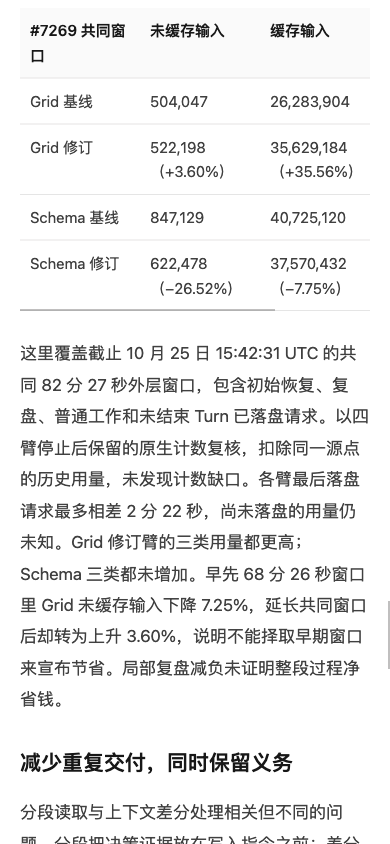
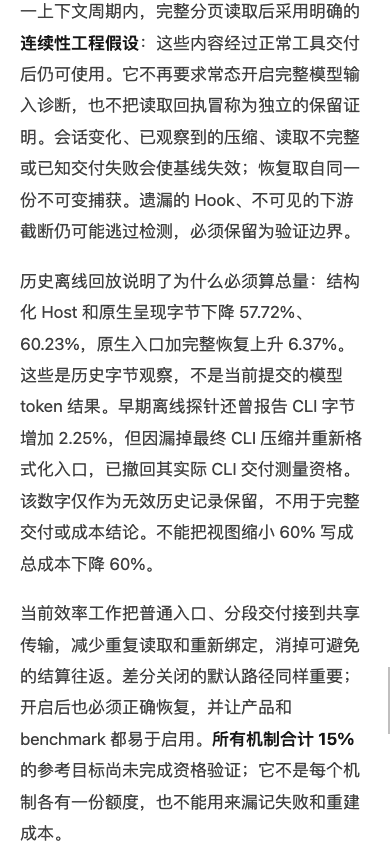
docs(blog): preserve withdrawn CLI measurement status

Changed region(s): [[0.0308, 0.0, 0.9538, 1.0], [0.9846, 0.7085, 1.0, 0.8626]]

diff --git a/apps/presentation/site/public/blog/edgebench-feedback-and-memory/index.html b/apps/presentation/site/public/blog/edgebench-feedback-and-memory/index.html
@@ -81,7 +81,7 @@
 <p>This observation covers the common 82m27s outer window through October 25, 15:42:31 UTC: initial recovery, review, ordinary work and persisted requests in unfinished Turns. Retained native counters from all four stopped arms were reconciled against their shared donor boundaries, with no counter gaps. Last persisted requests differ by up to 2m22s; unpersisted usage remains unknown. Grid’s revised arm used more of all three components; Schema’s did not increase. In the earlier 68m26s window, Grid’s uncached input fell 7.25%; the longer common window reverses that to a 3.60% increase. Choosing only the earlier window would misrepresent the result. Local review savings have not established net savings for the complete episode.</p>
 <span id="staged-context"></span><span id="staged-transport"></span><h3>Reduce repeated delivery without losing obligations</h3>
 <p>Staged reading and context differencing solve related problems. Staging orders decision evidence before writer instructions. Differencing sends changes against an exact baseline while keeping current controls explicit. Within the same native session and context epoch, the Hook path uses an explicit <strong>engineering assumption of continuity</strong> after a complete paged read: normally delivered tool content remains usable. It no longer requires full model-input diagnostics during ordinary operation, and a read receipt is not relabeled as independent retention proof. Session changes, observed compaction, incomplete reads and known delivery failures invalidate the baseline; recovery uses the same immutable capture. Missed hooks and unseen downstream truncation can still escape detection and remain validation limits.</p>
-<p>Historical offline replay illustrates why totals matter: structured Host and native presentation bytes fell 57.72% and 60.23%, while complete CLI delivery rose 2.25%, and native entry plus full recovery rose 6.37%. These are historical byte measurements, not current-head model-token results. A 60% smaller view cannot be reported as 60% lower total cost.</p>
+<p>Historical offline replay illustrates why totals matter: structured Host and native presentation bytes fell 57.72% and 60.23%, while native entry plus full recovery rose 6.37%. These are historical byte observations, not current-head model-token results. An earlier offline probe also reported a 2.25% increase in CLI bytes, but its qualification as an actual CLI delivery measurement was withdrawn: it omitted final CLI compaction and reformatted entry output. That figure remains only as an invalid historical measurement and supports no complete-delivery or cost conclusion. A 60% smaller view cannot be reported as 60% lower total cost.</p>
 <p>Our current efficiency work connects ordinary and staged delivery to the shared transport, reduces repeated reads and rebinding, and removes avoidable settlement round trips. The default with differencing off matters as much as the opt-in path. Enabled delivery also has to recover correctly and remain easy to activate across the product and benchmark. The reference of <strong>15% for all mechanisms combined</strong> remains unqualified; it is neither a separate allowance per mechanism nor a reason to omit failures or reconstruction.</p>
 </section>
 <span id="patches"></span><span id="planned-stride"></span><span id="distribution"></span><span id="rerun"></span><section id="new-study"><h2>6. Context validation starts from zero</h2>

diff --git a/apps/presentation/site/public/blog/zh/edgebench-feedback-and-memory/index.html b/apps/presentation/site/public/blog/zh/edgebench-feedback-and-memory/index.html
@@ -81,7 +81,7 @@
 <p>这里覆盖截止 10 月 25 日 15:42:31 UTC 的共同 82 分 27 秒外层窗口，包含初始恢复、复盘、普通工作和未结束 Turn 已落盘请求。以四臂停止后保留的原生计数复核，扣除同一源点的历史用量，未发现计数缺口。各臂最后落盘请求最多相差 2 分 22 秒，尚未落盘的用量仍未知。Grid 修订臂的三类用量都更高；Schema 三类都未增加。早先 68 分 26 秒窗口里 Grid 未缓存输入下降 7.25%，延长共同窗口后却转为上升 3.60%，说明不能择取早期窗口来宣布节省。局部复盘减负未证明整段过程净省钱。</p>
 <span id="staged-context"></span><span id="staged-transport"></span><h3>减少重复交付，同时保留义务</h3>
 <p>分段读取与上下文差分处理相关但不同的问题。分段把决策证据放在写入指令之前；差分只传相对精确基线的变化，并保持当前控制条件显式可见。原生 Hook 方案在同一会话、同一上下文周期内，完整分页读取后采用明确的<strong>连续性工程假设</strong>：这些内容经过正常工具交付后仍可使用。它不再要求常态开启完整模型输入诊断，也不把读取回执冒称为独立的保留证明。会话变化、已观察到的压缩、读取不完整或已知交付失败会使基线失效；恢复取自同一份不可变捕获。遗漏的 Hook、不可见的下游截断仍可能逃过检测，必须保留为验证边界。</p>
-<p>历史离线回放说明了为什么必须算总量：结构化 Host 和原生呈现字节下降 57.72%、60.23%，完整 CLI 交付却上升 2.25%，原生入口加完整恢复上升 6.37%。这是历史字节测量，不是当前提交的模型 token 结果。不能把视图缩小 60% 写成总成本下降 60%。</p>
+<p>历史离线回放说明了为什么必须算总量：结构化 Host 和原生呈现字节下降 57.72%、60.23%，原生入口加完整恢复上升 6.37%。这些是历史字节观察，不是当前提交的模型 token 结果。早期离线探针还曾报告 CLI 字节增加 2.25%，但因漏掉最终 CLI 压缩并重新格式化入口，已撤回其实际 CLI 交付测量资格。该数字仅作为无效历史记录保留，不用于完整交付或成本结论。不能把视图缩小 60% 写成总成本下降 60%。</p>
 <p>当前效率工作把普通入口、分段交付接到共享传输，减少重复读取和重新绑定，消掉可避免的结算往返。差分关闭的默认路径同样重要；开启后也必须正确恢复，并让产品和 benchmark 都易于启用。<strong>所有机制合计 15%</strong> 的参考目标尚未完成资格验证；它不是每个机制各有一份额度，也不能用来漏记失败和重建成本。</p>
 </section>
 <span id="patches"></span><span id="planned-stride"></span><span id="distribution"></span><span id="rerun"></span><section id="new-study"><h2>6. 从零开始的上下文验证</h2>
